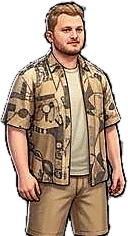
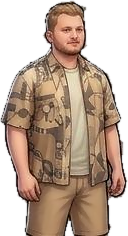
Soft DLSS-style post pass: bilateral denoise, skin smoothing/SSS tint, no sharpen noise; smoother hero skin; calmer grain
Claude-Session: https://claude.ai/code/session_01Cr2TWfzsTSuZMJmoki1rcL

Changed region(s): [[0.0, 0.0, 1.0, 1.0], [0.5, 0.8305, 0.6875, 1.0]]

diff --git a/js/post.js b/js/post.js
@@ -11,25 +11,41 @@
   const VS = 'attribute vec2 p;varying vec2 uv;void main(){uv=p*.5+.5;gl_Position=vec4(p,0.,1.);}';
   const FS = `precision highp float;varying vec2 uv;uniform sampler2D t;uniform vec2 px;uniform float amt;uniform float seed;
 float L(vec3 c){return dot(c,vec3(.299,.587,.114));}
+float skin(vec3 c){ // soft skin-tone mask (hue ~ orange, medium saturation, not too dark)
+  float mx=max(c.r,max(c.g,c.b)),mn=min(c.r,min(c.g,c.b)),d=mx-mn+1e-4,s=d/(mx+1e-4);
+  float ok=step(c.g,c.r)*step(c.b*.9,c.g)*smoothstep(.12,.2,s)*(1.-smoothstep(.6,.72,s))*smoothstep(.3,.42,mx);
+  float h=(c.g-c.b)/d; return ok*smoothstep(-.05,.2,h)*(1.-smoothstep(.75,1.,h));
+}
 void main(){
-  vec2 cc=uv-.5; float ab=dot(cc,cc)*1.1*amt;                                   // lens chromatic aberration (stronger at the edges)
-  vec3 c=vec3(texture2D(t,uv+cc*ab*.012).r,texture2D(t,uv).g,texture2D(t,uv-cc*ab*.012).b);
+  vec3 c=texture2D(t,uv).rgb;
   vec3 n=texture2D(t,uv+vec2(0.,px.y)).rgb,s=texture2D(t,uv-vec2(0.,px.y)).rgb,e=texture2D(t,uv+vec2(px.x,0.)).rgb,w=texture2D(t,uv-vec2(px.x,0.)).rgb;
-  float lc=L(c),ln=L(n),ls=L(s),le=L(e),lw=L(w);
-  float mn=min(lc,min(min(ln,ls),min(le,lw))),mx=max(lc,max(max(ln,ls),max(le,lw)));
-  // 1) edge-aware anti-aliasing: blend along strong luma edges only
-  vec3 avg=(n+s+e+w)*.25; float edge=smoothstep(.07,.30,mx-mn);
-  vec3 col=mix(c,mix(c,avg,.6),edge*amt);
-  // 2) contrast adaptive sharpening (less sharpening where contrast is already high)
-  float wgt=-1./mix(8.,5.,clamp(min(mn,1.-mx)/max(mx,.001),0.,1.))*(.45+.25*amt)*.62;
-  col=(col+wgt*(n+s+e+w))/(1.+4.*wgt);
-  // 3) local contrast / clarity
-  col+=(col-avg)*.11*amt;
-  // 4) filmic S-curve + slight saturation lift, dithering against banding
-  col=mix(col,col*col*(3.-2.*col),.10*amt);
-  float g=dot(col,vec3(.299,.587,.114)); col=mix(vec3(g),col,1.0+.04*amt);
-  float d=fract(sin(dot(gl_FragCoord.xy+seed,vec2(12.9898,78.233)))*43758.5453)-.5; col+=d/255.;
-  gl_FragColor=vec4(clamp(col,0.,1.),1.);
+  vec3 ne=texture2D(t,uv+px).rgb,nw=texture2D(t,uv+vec2(-px.x,px.y)).rgb,se=texture2D(t,uv+vec2(px.x,-px.y)).rgb,sw=texture2D(t,uv-px).rgb;
+  float lc=L(c);
+  // 1) edge-preserving denoise (bilateral 3x3): flattens grain/speckle, keeps real edges
+  vec3 acc=c*2.;float wsum=2.;
+  vec3 nb[8];nb[0]=n;nb[1]=s;nb[2]=e;nb[3]=w;nb[4]=ne;nb[5]=nw;nb[6]=se;nb[7]=sw;
+  for(int i=0;i<8;i++){float dl=abs(L(nb[i])-lc);float k=exp(-dl*dl*160.)*(i<4?1.:.7);acc+=nb[i]*k;wsum+=k;}
+  vec3 dn=acc/wsum; c=mix(c,dn,.5*amt);
+  // 2) skin: wider soft smoothing + warm subsurface glow, only on skin-coloured pixels
+  float sk=skin(c);
+  if(sk>.01){
+    vec3 b=c*1.;float bs=1.;
+    for(int i=0;i<8;i++){vec3 q=nb[i];float dl=abs(L(q)-lc);float k=exp(-dl*dl*260.)*skin(q);b+=q*k;bs+=k;}
+    b/=bs; vec3 sm=mix(c,b,.7);
+    vec3 warm=sm*vec3(1.045,1.0,.97); float sh=1.-smoothstep(.15,.7,lc);
+    sm+=vec3(.028,.006,0.)*sh;                                   // blood-under-skin tint in shadows
+    c=mix(c,mix(sm,warm,.5),sk*amt);
+  }
+  // 3) mild anti-aliasing on strong edges only
+  float mn=min(lc,min(min(L(n),L(s)),min(L(e),L(w)))),mx=max(lc,max(max(L(n),L(s)),max(L(e),L(w))));
+  float edge=smoothstep(.10,.34,mx-mn); c=mix(c,(n+s+e+w+c*2.)/6.,edge*.4*amt);
+  // 4) very light contrast-adaptive sharpen (kept tiny to avoid ringing/noise)
+  float wg=-1./mix(8.,5.,clamp(min(mn,1.-mx)/max(mx,.001),0.,1.))*.16*amt;
+  c=(c+wg*(n+s+e+w))/(1.+4.*wg);
+  // 5) gentle filmic curve, no visible dither
+  c=mix(c,c*c*(3.-2.*c),.07*amt);
+  float d=fract(sin(dot(gl_FragCoord.xy+seed,vec2(12.9898,78.233)))*43758.5453)-.5; c+=d/510.;
+  gl_FragColor=vec4(clamp(c,0.,1.),1.);
 }`;
   const G = BB.gl = { on: false, amt: 1, ok: false };
   BB.renderScale = 1;

diff --git a/js/engine.js b/js/engine.js
@@ -172,11 +172,11 @@
     g.restore(); g.save(); g.globalCompositeOperation = 'destination-in'; g.drawImage(mask, 0, 0); g.restore();
   };
   const TEXMAP = {
-    hall: { wall: ['Plaster007', 80, .5, .75], floor: ['Concrete012', 80, .6, .95] },
-    living: { wall: ['Plaster006', 90, .35, .7], floor: ['Planks037B', 90, .8, .95] },
-    kitchen: { wall: ['Plaster001', 80, .4, .7], floor: ['Concrete034', 90, .55, .95] },
-    bath: { wall: ['Concrete034', 100, .3, .65], floor: ['Tiles052', 60, .5, .9] },
-    work: { wall: ['Concrete012', 90, .45, .75], floor: ['Concrete034', 100, .65, .95] }
+    hall: { wall: ['Plaster007', 80, .42, .6], floor: ['Concrete012', 80, .6, .95] },
+    living: { wall: ['Plaster006', 90, .3, .55], floor: ['Planks037B', 90, .8, .95] },
+    kitchen: { wall: ['Plaster001', 80, .32, .55], floor: ['Concrete034', 90, .55, .95] },
+    bath: { wall: ['Concrete034', 100, .25, .5], floor: ['Tiles052', 60, .5, .9] },
+    work: { wall: ['Concrete012', 90, .35, .6], floor: ['Concrete034', 100, .65, .95] }
   };
 
   /* ---------------------------------------------- default procedural surfaces */
@@ -582,7 +582,7 @@
     // 6. grade: vignette + grain
     { const gr = g.createRadialGradient(V.W / 2, V.H * .52, V.H * .35, V.W / 2, V.H * .52, V.W * .72); gr.addColorStop(0, 'rgba(0,0,0,0)'); gr.addColorStop(1, 'rgba(4,3,8,.58)'); g.fillStyle = gr; g.fillRect(0, 0, V.W, V.H); }
     { g.save(); g.globalCompositeOperation = 'overlay'; const gg = g.createLinearGradient(0, 0, 0, V.H); gg.addColorStop(0, 'rgba(60,105,150,.16)'); gg.addColorStop(.55, 'rgba(0,0,0,0)'); gg.addColorStop(1, 'rgba(255,165,85,.12)'); g.fillStyle = gg; g.fillRect(0, 0, V.W, V.H); g.restore(); }
-    if (Q.grain && noiseC) { g.save(); g.globalCompositeOperation = 'overlay'; g.globalAlpha = .07; const ox = (t * 977 | 0) % 128, oy = (t * 631 | 0) % 128; for (let x = -ox; x < V.W; x += 128) for (let y = -oy; y < V.H; y += 128) g.drawImage(noiseC, x, y); g.restore(); }
+    if (Q.grain && noiseC) { g.save(); g.globalCompositeOperation = 'overlay'; g.globalAlpha = .02; const ox = (t * 977 | 0) % 128, oy = (t * 631 | 0) % 128; for (let x = -ox; x < V.W; x += 128) for (let y = -oy; y < V.H; y += 128) g.drawImage(noiseC, x, y); g.restore(); }
     if (BB.debug.on) drawDebug(g, S, t, vis);
   };
 
